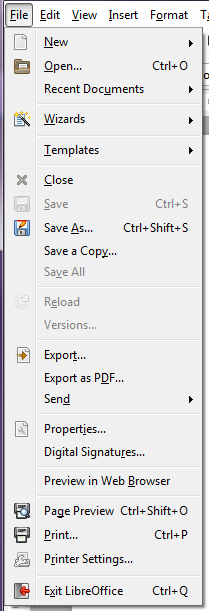
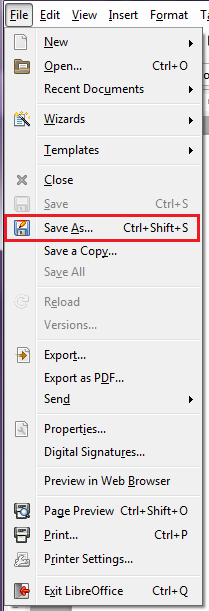
Making writer doc look pretty

Changed region(s): [[0.0, 0.3421, 0.9761, 0.4043]]

diff --git a/t-writer.html b/t-writer.html
@@ -9,7 +9,7 @@ title: "How to Write a Letter in LibreOffice Writer"
 	<section data-hd-class="task/steps-informal"> 
 		<h2>Steps</h2>
 		<ol> 
-			<li>Open the LibreOffice Suite package either by clicking on the icon on your desktop, or searching for "LibreOffice 4.3" in the start menu.</li> 
+			<li>Open the LibreOffice Suite package either by clicking on the icon on your desktop, or searching for "LibreOffice 4.3" in the start menu.</li> <br>
 			<li>Once the program opens, under <b>Create</b>, click <b>Writer Document</b> to open LibreOffice Writer. <em>(Figure 7)</em></li>
 			<figure>
 				<img src="images/createwriterdoc.png" />
@@ -20,13 +20,16 @@ title: "How to Write a Letter in LibreOffice Writer"
 				<img src="images/changefontwriter.png" />
 				<figcaption>Figure 8: Changing the font face of the text used in the document</figcaption>
 			</figure> <br>
-			<li>When finished editing, or to ensure the safety of your document, you need to save your document. Do this by clicking on <b>File</b> on the top toolbar then click on <b>Save as...</b> <em>(Figure 9)</em>
+			<li>When finished editing, or to ensure the safety of your document, you need to save your document. Do this by clicking on <b>File</b> on the top toolbar then click on <b>Save As...</b> <em>(Figure 9)</em>
 				<p><strong>You should save your work periodically to avoid losing progress.</strong></p>
 			</li>
 			<figure>
 				<img src="images/savewriter.png" />
 				<figcaption>Figure 9: Getting to the Save dialog</figcaption>
 			</figure> <br>
+			<li>Name your document and select where to save your letter, then click <b>Save</b>.</li> <br>
+
+			<li>Either keep editing your document, or if you are finished, close the program by clicking the X at the top right of the window.</li>
 
 		</ol> 
 	</section>
